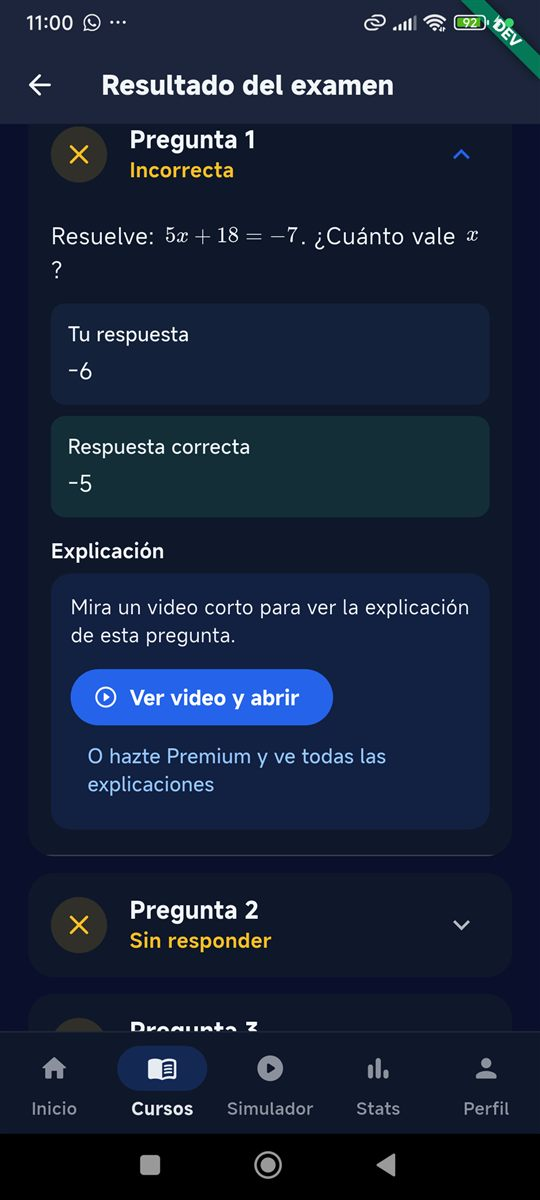
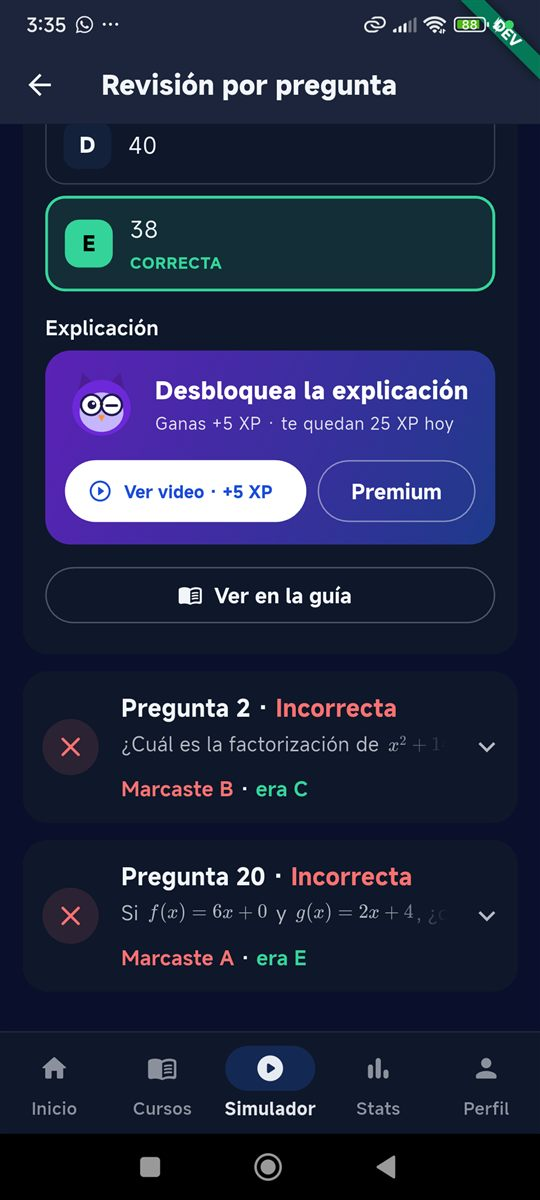
claimExplanationXp: corrección desde la clave congelada y prueba con emuladores
La revisión por pregunta no se guarda en el intento: el servidor ahora lee la
clave congelada de la pregunta (answerKeys) y la compara con la respuesta.
Prueba nueva con emuladores; captura real de la guía; PROGRESO.

diff --git a/functions/test/ranking.emulator.test.ts b/functions/test/ranking.emulator.test.ts
@@ -96,3 +96,33 @@ test("the league seats students by arrival in groups of their stage and closes t
   assert.equal(await closeLeagueWeek(db, config, week, on), 0);
   await rankingsDoc.delete();
 });
+
+test("explanation videos give XP once per failed question of an owned, submitted attempt", async () => {
+  const uid = "expl-u1";
+  await student(uid, "Eva", "eva@example.com");
+  const attempts = db.collection(config.collections.attempts);
+  const keys = db.collection(config.collections.answerKeys);
+  await attempts.doc("expl-att").set({
+    userId: uid,
+    status: "submitted",
+    questionSnapshots: [{ questionId: "eq1", version: 1 }, { questionId: "eq2", version: 1 }, { questionId: "eq3", version: 2 }],
+    answers: { eq1: "B", eq2: "A" }
+  });
+  await keys.doc("eq1_1").set({ questionId: "eq1", version: 1, correctAlternativeId: "A" });
+  await keys.doc("eq2_1").set({ questionId: "eq2", version: 1, correctAlternativeId: "A" });
+  await keys.doc("eq3_2").set({ questionId: "eq3", version: 2, correctAlternativeId: "C" });
+  // Wrong answer: XP once.
+  const first = await xp.afterExplanationVideo(uid, "expl-att", "eq1");
+  assert.equal(first?.gained, 5);
+  assert.equal(first?.todayExplained, 5);
+  assert.equal(first?.explanationDailyCap, 25);
+  assert.equal(await xp.afterExplanationVideo(uid, "expl-att", "eq1"), undefined);
+  // Blank also counts; a correct answer, an unknown question or another student does not.
+  assert.equal((await xp.afterExplanationVideo(uid, "expl-att", "eq3"))?.gained, 5);
+  assert.equal(await xp.afterExplanationVideo(uid, "expl-att", "eq2"), undefined);
+  assert.equal(await xp.afterExplanationVideo(uid, "expl-att", "nope"), undefined);
+  assert.equal(await xp.afterExplanationVideo("expl-u2", "expl-att", "eq1"), undefined);
+  const state = (await users.doc(uid).collection("xp").doc("current").get()).data();
+  assert.equal(state?.today?.explained, 10);
+  assert.equal(state?.total, 10);
+});

diff --git a/functions/src/xp.ts b/functions/src/xp.ts
@@ -690,9 +690,15 @@ export class XpService {
     metrics?.readDocument();
     const data = attempt.data();
     if (data?.userId !== uid || data?.status !== "submitted") return undefined;
-    const reviews = Array.isArray(data.review) ? data.review : [];
-    const item = reviews.map(record).find((review) => review?.questionId === questionId);
-    if (item === undefined || item.isCorrect === true) return undefined;
+    // The review is not stored with the attempt: correctness comes from the
+    // frozen answer key of that question (one more read, once per question).
+    const snapshots = Array.isArray(data.questionSnapshots) ? data.questionSnapshots.map(record) : [];
+    const version = snapshots.find((question) => question?.questionId === questionId)?.version;
+    if (typeof version !== "number") return undefined;
+    const key = await this.db.collection(this.config.collections.answerKeys).doc(`${questionId}_${version}`).get();
+    metrics?.readDocument();
+    const correct = key.data()?.correctAlternativeId;
+    if (typeof correct !== "string" || record(data.answers)?.[questionId] === correct) return undefined;
     const atMs = Date.now();
     return this.grant(uid, (_, settings) => explanationGrant(attemptId, questionId, atMs, settings), metrics);
   }

diff --git a/PROGRESO.md b/PROGRESO.md
@@ -5,7 +5,7 @@
 _Última actualización: 2026-10-19_
 
 ## Estado actual
-- **Candado del video con XP (2026-10-19, admin #110 / app #126, desplegado en TEST):** Functions: evento `explanation_video` en `xp.ts` (`explanationGrant`, `afterExplanationVideo`, tope propio `explanationVideoDailyCap` en `today.explained`), callable `claimExplanationXp` (`parseClaimExplanationXp`), `XpAward.todayExplained/explanationDailyCap`; prueba en `test/xp.test.ts` (94 en verde). Admin: `amounts.explanationVideo` (5) y `explanationVideoDailyCap` (25) en `xp_settings.dart` y en «Cómo gana XP el alumno» con «En la práctica»; etiqueta del evento y revertir descuenta `today.explained`. Contratos `xp_contract.md` y `ads_contract.md` (ambos repos), guía y arquitectura.
+- **Candado del video con XP (2026-10-19, admin #110 / app #126, desplegado en TEST):** Functions: evento `explanation_video` en `xp.ts` (`explanationGrant`, `afterExplanationVideo`, tope propio `explanationVideoDailyCap` en `today.explained`), callable `claimExplanationXp` (`parseClaimExplanationXp`), `XpAward.todayExplained/explanationDailyCap`; prueba en `test/xp.test.ts` (94 en verde) y en `test/ranking.emulator.test.ts` (intento real + clave congelada: la revisión no se guarda en el intento, la corrección sale de `answerKeys`). Validado en el teléfono: tarjeta, video de prueba completo, explicación con «¡Así se resuelve!» y «+5 XP»; el log `explanation_xp_claimed` registró `gained: 5`. Admin: `amounts.explanationVideo` (5) y `explanationVideoDailyCap` (25) en `xp_settings.dart` y en «Cómo gana XP el alumno» con «En la práctica»; etiqueta del evento y revertir descuenta `today.explained`. Contratos `xp_contract.md` y `ads_contract.md` (ambos repos), guía y arquitectura.
 - **Revisión por pregunta: pulido (2026-10-19, app #125 / admin #109):** detalle en `../iya-app/PROGRESO.md`. Aquí: captura real nueva `docs/guias/img/sim-revision.jpg` y textos de la guía («En blanco» en la tarjeta).
 - **Revisión por pregunta renovada (2026-10-19, app #124 / admin #108):** solo app (filtros, mapa de preguntas, tarjeta con todas las alternativas y «Ver en la guía» en el Simulador; detalle en `../iya-app/PROGRESO.md`). Aquí: guía de la app (tabla del examen de parte, «Revisión, Mis errores…» del Simulador, captura nueva) y changelog de arquitectura. Sin cambios de Functions, reglas ni configuración. Lienzo de las propuestas: https://claude.ai/artifact/EAfyEe5ScqWQ7zPvfYExFk.
 - **Anuncios: siete pantallas con banner e intersticial al terminar cada examen (2026-10-19, admin #107 / app #123):** `AdsSettings.bannerScreenIds` suma `courses`, `simulator`, `stats` y `profile` (etiquetas y fábrica en true), `minInterstitialMinutes = 0` (0 = en cada examen) y fábrica `interstitialMinMinutes = 0`, `firstExamOfDayFree = false`; tema «Anuncios» con cuatro preguntas nuevas y «En la práctica» del intersticial (`_interstitialPractice`). En TEST `{config}/ads` quedó con las siete pantallas, 0 minutos y sin primer examen libre. Contrato `docs/ads_contract.md`, guía de la app (sección «Anuncios», tabla del admin, historial) y arquitectura al día.
